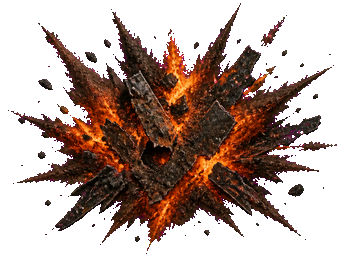
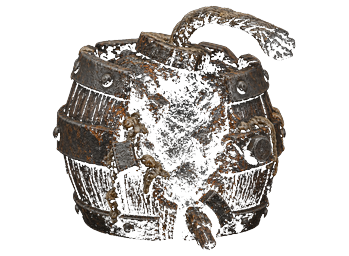
Bind Limner-signed fx_bomb (ASSET_VER 78). (#167)
Sculpted keg bomb, no glow-ball. KEEP idles unchanged.

diff --git a/src/ui/Ch1RubbleLoad.test.js b/src/ui/Ch1RubbleLoad.test.js
@@ -45,7 +45,7 @@ assert(!/else if\(okTex\)\{/.test(html),
   'generated TEX diamonds are not a first-frame floor/wall fallback');
 assert(/tile_floor_mine\.png\?v=60/.test(html) && /tile_wall_worked\.png\?v=60/.test(html),
   'mine floor and worked wall are preloaded before first present');
-assert(/ASSET_VER='77'/.test(html), 'asset cache-bust matches punched living-Macar sheets');
+assert(/ASSET_VER='78'/.test(html), 'asset cache-bust matches punched living-Macar sheets');
 assert(/function scatterBurialRubble\(/.test(html) && /fallen:1/.test(html) && /k:'dust'/.test(html),
   'cave-in entry scatters extra timber, stone, and dust around the burial');
 assert(/function drawFallenBeam\(/.test(html) && /function drawFloorDust\(/.test(html),

diff --git a/src/combat/ElvenkindBoots.test.js b/src/combat/ElvenkindBoots.test.js
@@ -23,7 +23,7 @@ function extractFn(name){
   return m[0];
 }
 
-assert(/ASSET_VER='77'/.test(html), 'ASSET_VER is unchanged');
+assert(/ASSET_VER='78'/.test(html), 'ASSET_VER is unchanged');
 assert(/function wornMoveMul\(/.test(html) && /function moveStep\(/.test(html),
   'wornMoveMul and moveStep exist (extract of move())');
 assert(/function wearingElvenkind\(/.test(html), 'shared wearingElvenkind helper exists');

diff --git a/src/combat/UseMagicItem.test.js b/src/combat/UseMagicItem.test.js
@@ -48,7 +48,7 @@ assert(/nocked|stays packed/.test(useFn), 'plus-shot ammo use is still nock/read
 assert(/EquipmentSlots\.isEquippable\(it\)/.test(useFn),
   'wearable misc (Displacement) dons through isEquippable before the generic buff+heal');
 
-assert(/ASSET_VER='77'/.test(html), 'ASSET_VER is unchanged');
+assert(/ASSET_VER='78'/.test(html), 'ASSET_VER is unchanged');
 
 const ctx={
   G:{equipped:{}},

diff --git a/index.html b/index.html
@@ -348,7 +348,7 @@ const FONT_QUOTE='"Cormorant Garamond",Palatino,Georgia,serif';
 
 /* ---------------------------- painted sprites (Baldur's Gate isometric) ---------------------------- */
 const SPR={};
-const ASSET_VER='77';
+const ASSET_VER='78';
 let SPLASH_STATE='loading';
 function assetUrl(src){
   const u=src+(src.indexOf('?')>=0?'&':'?')+'v='+ASSET_VER;

diff --git a/src/combat/LeftoverMagic.test.js b/src/combat/LeftoverMagic.test.js
@@ -26,7 +26,7 @@ function extractFn(name){
   return m[0];
 }
 
-assert(/ASSET_VER='77'/.test(html), 'ASSET_VER is unchanged');
+assert(/ASSET_VER='78'/.test(html), 'ASSET_VER is unchanged');
 assert(!/id:'vorpal'|id:'bag_of_holding'|id:'arrow_of_slaying'|id:'javelin_of_lightning'/.test(html),
   'no invented leftover-magic item ids');
 
